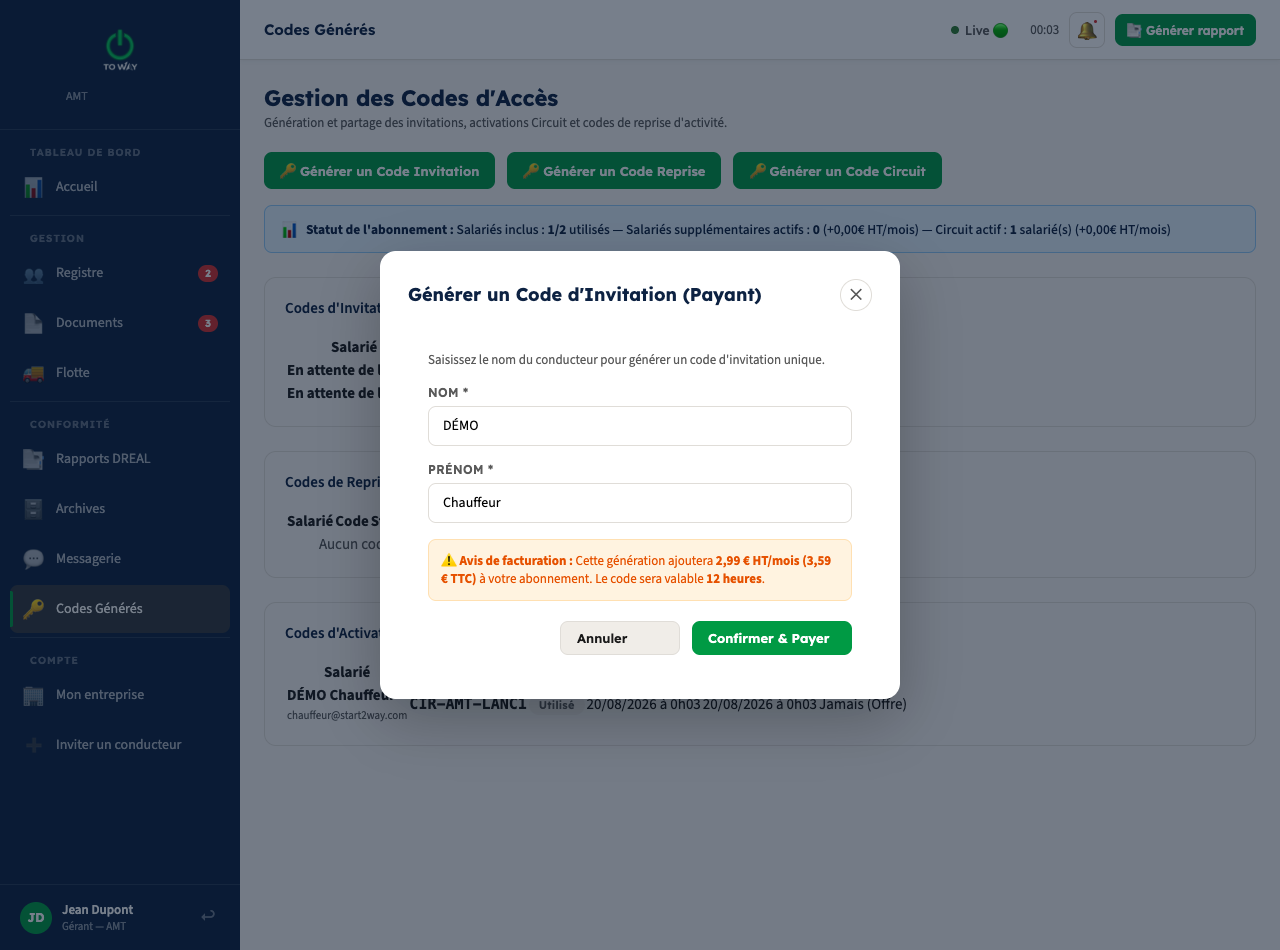
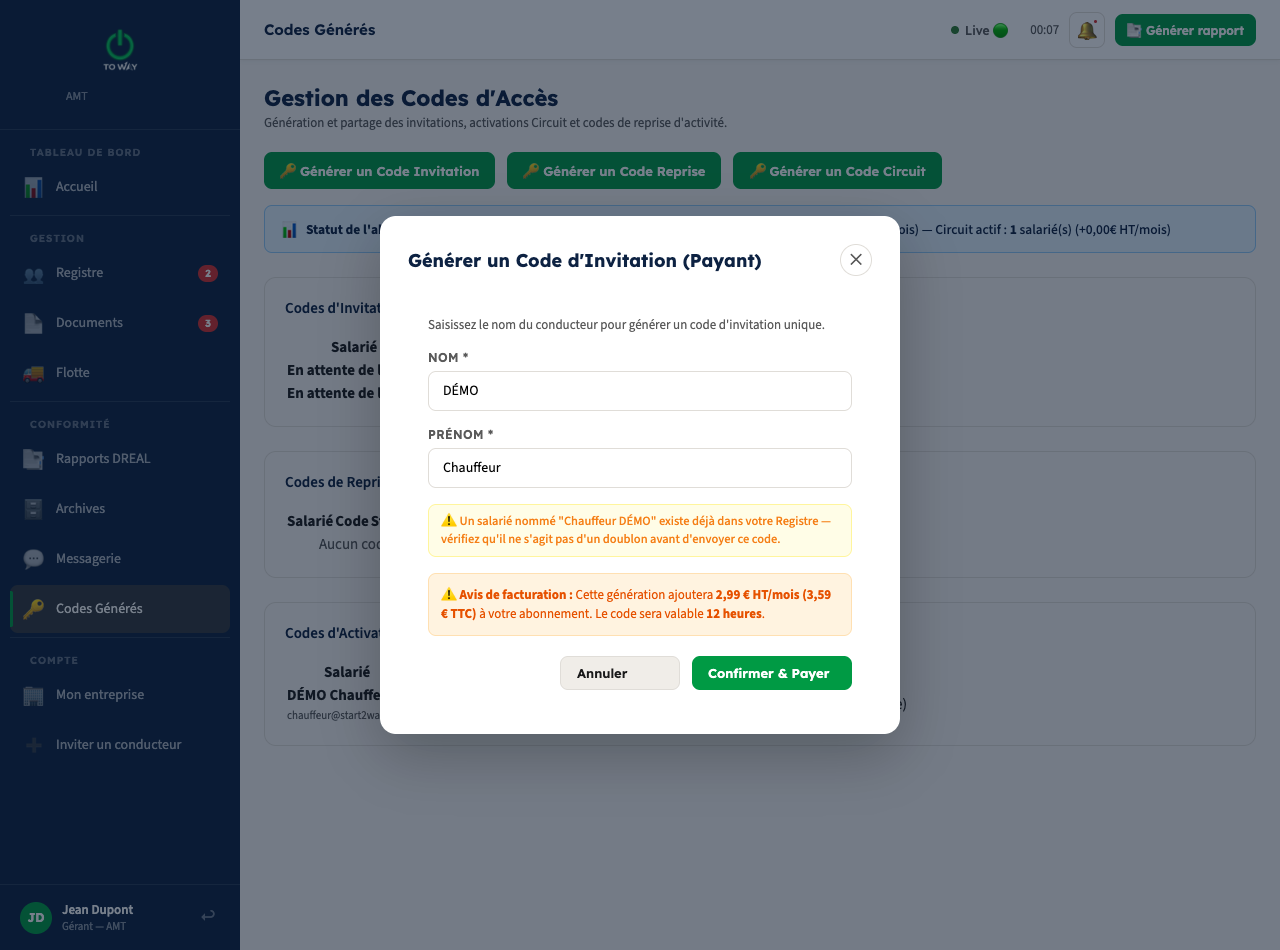
docs: finalize duplicate warning fix and push correct screenshot

Changed region(s): [[0.2812, 0.2137, 0.7188, 0.7937]]

diff --git a/app-web.html b/app-web.html
@@ -1298,9 +1298,15 @@
       return;
     }
     
-    const fullName = (firstName + ' ' + lastName).toLowerCase();
+    const name1 = (lastName + ' ' + firstName).toLowerCase();
+    const name2 = (firstName + ' ' + lastName).toLowerCase();
     const users = S2W.table('users') || [];
-    const exists = users.some(u => u.role === 'salarie' && u.status === 'actif' && S2WUtils.fullName(u).toLowerCase() === fullName);
+    
+    const exists = users.some(u => {
+      const uName = S2WUtils.fullName(u).toLowerCase();
+      const uNameAlt = ((u.first_name || '') + ' ' + (u.last_name || '')).toLowerCase();
+      return u.role === 'salarie' && u.status === 'actif' && (uName === name1 || uName === name2 || uNameAlt === name1 || uNameAlt === name2);
+    });
     
     if (exists) {
       warnBox.innerHTML = `
